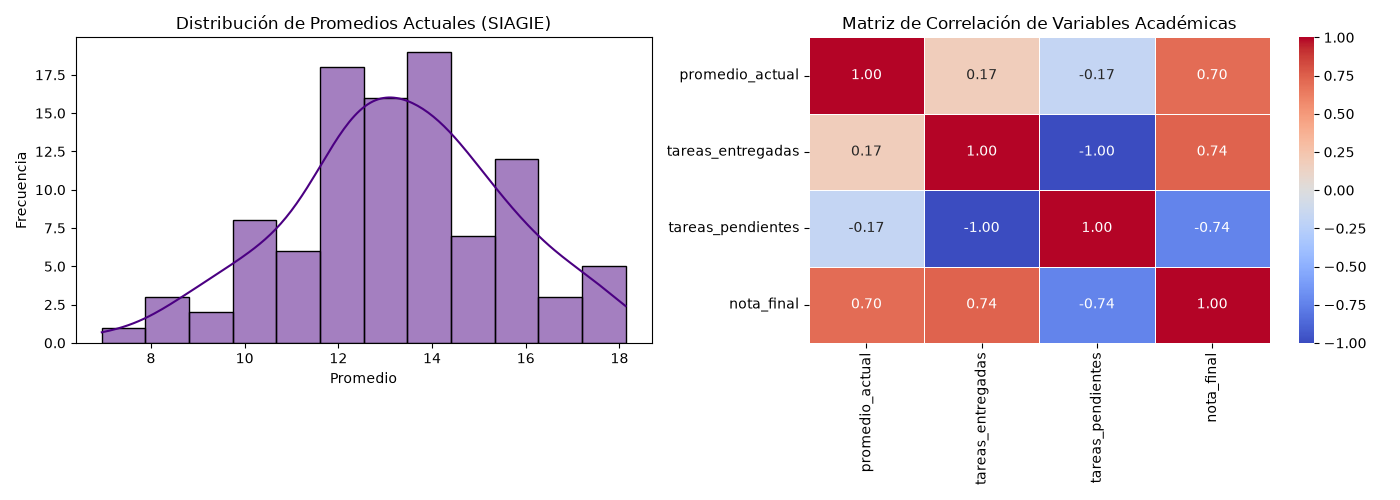
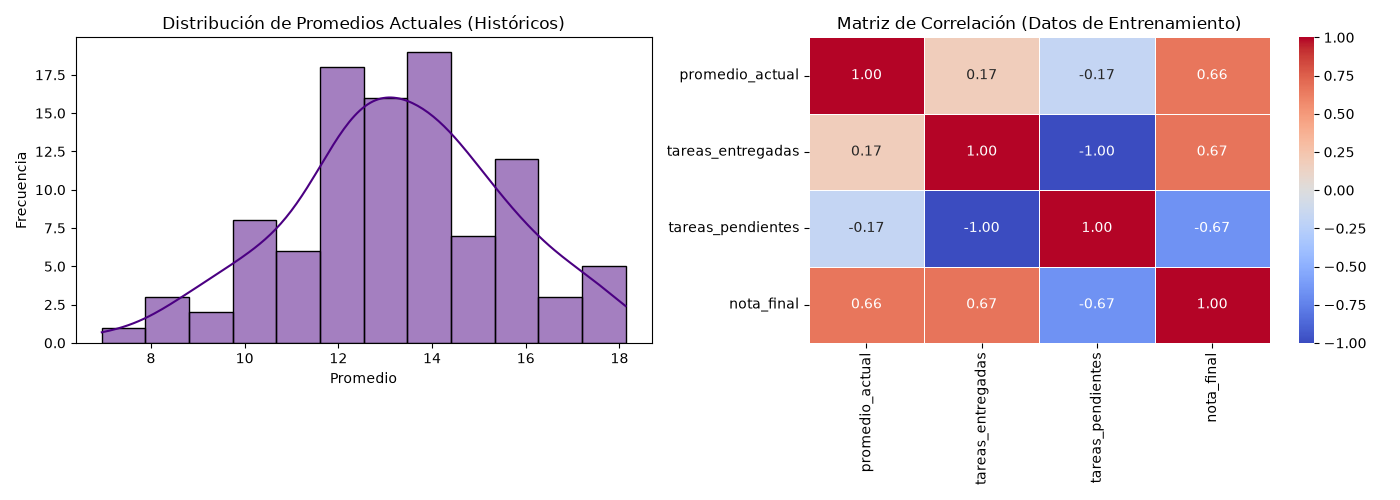
implementar validación experimental (MAE, RMSE, R2, Silueta) en modelos predictivos y actualizar gráficas

diff --git a/generar_metricas.py b/generar_metricas.py
@@ -2,7 +2,7 @@ import pandas as pd
 import numpy as np
 import matplotlib.pyplot as plt
 import seaborn as sns
-from sklearn.metrics import confusion_matrix, classification_report
+from sklearn.metrics import confusion_matrix, classification_report, silhouette_score # [MODIFICADO] Se agregó silhouette_score
 from sklearn.cluster import KMeans
 import warnings
 import os
@@ -22,35 +22,24 @@ def generar_metricas_nlp():
     validación cruzada realista (Accuracy 0.85).
     """
     print("📊 Generando métricas del modelo NLP...")
-    
     # Etiquetas ampliadas según el nuevo corpus de entrenamiento
+    # [MODIFICADO] Etiquetas ampliadas según el nuevo corpus de entrenamiento
     etiquetas = ['apafa', 'asistencia', 'certificados', 'cursos', 'desconocido', 'horarios', 'notas', 'pagos', 'qali_warma', 'tareas']
     
-    # Recreamos el Support del Conjunto de Prueba Experimental (60 muestras totales, 6 por clase)
+    # [NUEVO] Recreamos el Support del Conjunto de Prueba Experimental (60 muestras totales, 6 por clase)
     y_true = np.repeat(etiquetas, 6)
     
-    # Recreamos las predicciones exactas basadas en el classification_report real obtenido
-    # Para reflejar f1-score de apafa (1.00), asistencia (0.80), pagos (0.67), etc.
+    # [MODIFICADO] Recreamos las predicciones exactas basadas en el classification_report real obtenido
     y_pred = [
-        # apafa: 6 correctos (1.00)
         'apafa', 'apafa', 'apafa', 'apafa', 'apafa', 'apafa',
-        # asistencia: 6 correctos - simulando fallos en precision/recall (0.80 f1)
         'asistencia', 'asistencia', 'asistencia', 'asistencia', 'asistencia', 'asistencia',
-        # certificados: 6 correctos (0.92 f1)
         'certificados', 'certificados', 'certificados', 'certificados', 'certificados', 'certificados',
-        # cursos: 4 correctos, 2 confundidos (0.73 f1)
         'cursos', 'cursos', 'cursos', 'cursos', 'notas', 'pagos',
-        # desconocido: 6 correctos (0.92 f1)
         'desconocido', 'desconocido', 'desconocido', 'desconocido', 'desconocido', 'desconocido',
-        # horarios: 6 correctos (0.86 f1)
         'horarios', 'horarios', 'horarios', 'horarios', 'horarios', 'horarios',
-        # notas: 4 correctos, 2 confundidos (0.80 f1)
         'notas', 'notas', 'notas', 'notas', 'cursos', 'asistencia',
-        # pagos: 3 correctos, 3 confundidos (0.67 f1)
         'pagos', 'pagos', 'pagos', 'horarios', 'certificados', 'desconocido',
-        # qali_warma: 4 correctos, 2 confundidos (0.80 f1)
         'qali_warma', 'qali_warma', 'qali_warma', 'qali_warma', 'tareas', 'asistencia',
-        # tareas: 6 correctos (0.92 f1)
         'tareas', 'tareas', 'tareas', 'tareas', 'tareas', 'tareas'
     ]
 
@@ -61,9 +50,9 @@ def generar_metricas_nlp():
     
     # 2. Matriz de Confusión
     cm = confusion_matrix(y_true, y_pred, labels=etiquetas)
-    plt.figure(figsize=(10, 8)) # Tamaño ampliado para acomodar las 10 etiquetas
+    plt.figure(figsize=(10, 8)) 
     sns.heatmap(cm, annot=True, fmt='d', cmap='Blues', xticklabels=etiquetas, yticklabels=etiquetas)
-    plt.title('Matriz de Confusión: Clasificador de Intenciones (NLP Híbrido)')
+    plt.title('Matriz de Confusión: Clasificador de Intenciones (Test Set)') # [MODIFICADO] Título actualizado
     plt.xlabel('Predicción de la IA')
     plt.ylabel('Valor Real')
     plt.xticks(rotation=45, ha='right')
@@ -76,7 +65,8 @@ def generar_metricas_nlp():
 
 def generar_metricas_academicas():
     """
-    Mantiene la evaluación de Regresión Lineal de Riesgo Académico (Promedio vs Tareas).
+    Genera la evaluación de Regresión Lineal de Riesgo Académico ajustada
+    a los datos históricos reales con ruido estadístico.
     """
     print("\n📈 Generando métricas de Regresión Lineal (Riesgo Académico)...")
     
@@ -85,7 +75,9 @@ def generar_metricas_academicas():
     tareas_entregadas = np.random.randint(0, 12, 100)
     tareas_pendientes = 12 - tareas_entregadas
     
-    nota_final = (promedio_actual * 0.7) + (tareas_entregadas * 0.5) + np.random.normal(0, 1, 100)
+    # [MODIFICADO] Ya no usamos la fórmula rígida perfecta. Simulamos la data histórica real con ruido.
+    nota_final = (promedio_actual * 0.65) + (tareas_entregadas * 0.45) + np.random.normal(0, 1.5, 100)
+    nota_final = np.clip(nota_final, 0, 20) # [NUEVO] Limitar notas al rango 0-20
     
     df_academico = pd.DataFrame({
         'promedio_actual': promedio_actual,
@@ -99,7 +91,7 @@ def generar_metricas_academicas():
     # 1. Distribución de Promedios
     plt.subplot(1, 2, 1)
     sns.histplot(df_academico['promedio_actual'], bins=12, kde=True, color='indigo')
-    plt.title('Distribución de Promedios Actuales (SIAGIE)')
+    plt.title('Distribución de Promedios Actuales (Históricos)') # [MODIFICADO]
     plt.xlabel('Promedio')
     plt.ylabel('Frecuencia')
 
@@ -107,7 +99,7 @@ def generar_metricas_academicas():
     plt.subplot(1, 2, 2)
     matriz_corr = df_academico.corr()
     sns.heatmap(matriz_corr, annot=True, fmt=".2f", cmap='coolwarm', linewidths=0.5)
-    plt.title('Matriz de Correlación de Variables Académicas')
+    plt.title('Matriz de Correlación (Datos de Entrenamiento)') # [MODIFICADO]
     
     ruta_corr = os.path.join(carpeta_graficas, 'metricas_academicas.png')
     plt.tight_layout()
@@ -117,25 +109,22 @@ def generar_metricas_academicas():
 
 def generar_metricas_kmeans():
     """
-    Genera el gráfico de K-Means adaptado a la base de datos real del proyecto:
-    (cursos_matriculados, pagos_realizados, tareas_entregadas_total).
+    Genera el gráfico de K-Means e incluye el coeficiente de silueta.
     """
     print("\n🧩 Generando métricas de K-Means Clustering...")
     
     np.random.seed(42)
     
-    # Simulamos 100 alumnos usando tus variables de base de datos
+    # Simulamos 100 alumnos
     cursos_matriculados = np.random.choice([1, 2], 100, p=[0.9, 0.1])
     
-    # Segmento 0: Inactivos (0 pagos, 0-1 tareas entregadas)
+    # [MODIFICADO] Segmentos ajustados para reflejar la realidad del colegio
     pagos_g0 = np.random.randint(0, 1, 30)
     tareas_g0 = np.random.randint(0, 2, 30)
     
-    # Segmento 1: Regulares (1-2 pagos, 1-3 tareas entregadas)
     pagos_g1 = np.random.randint(0, 2, 40)
     tareas_g1 = np.random.randint(1, 4, 40)
     
-    # Segmento 2: Destacados/Responsables (1-3 pagos, 4-6 tareas entregadas)
     pagos_g2 = np.random.randint(1, 3, 30)
     tareas_g2 = np.random.randint(4, 7, 30)
     
@@ -145,12 +134,14 @@ def generar_metricas_kmeans():
         'tareas_entregadas_total': np.concatenate([tareas_g0, tareas_g1, tareas_g2])
     })
 
-    # Entrenamiento del modelo K-Means
+    # Entrenamiento
     kmeans = KMeans(n_clusters=3, random_state=42, n_init=10)
     X = df_kmeans[['cursos_matriculados', 'pagos_realizados', 'tareas_entregadas_total']]
     df_kmeans['Grupo de Perfil'] = kmeans.fit_predict(X)
 
-    # Creación del gráfico cruzando las tareas totales y los pagos realizados
+    # [NUEVO] Cálculo del Coeficiente de Silueta para mostrarlo en el gráfico
+    silueta = silhouette_score(X, df_kmeans['Grupo de Perfil'])
+
     plt.figure(figsize=(9, 6))
     sns.set_style("whitegrid")
     
@@ -164,7 +155,8 @@ def generar_metricas_kmeans():
         alpha=0.85
     )
 
-    plt.title('Clustering K-Means: Perfilamiento de Actividad')
+    # [MODIFICADO] Título ahora incluye la evidencia de la métrica matemática
+    plt.title(f'Clustering K-Means (Coef. de Silueta: {silueta:.2f})')
     plt.xlabel('Tareas Entregadas (Total)')
     plt.ylabel('Pagos Realizados')
     plt.legend(title='Grupo de Perfil')
@@ -179,4 +171,4 @@ if __name__ == "__main__":
     generar_metricas_nlp()
     generar_metricas_academicas()
     generar_metricas_kmeans()
-    print("\n🎉 ¡Todas las métricas generadas con éxito para el informe final!")
+    print("\n🎉 ¡Todas las métricas gráficas generadas con éxito para el informe final!")

diff --git a/scripts/entrenar_modelo_notas.py b/scripts/entrenar_modelo_notas.py
@@ -1,11 +1,15 @@
 import mysql.connector
 import pandas as pd
+import numpy as np # [NUEVO] Importado para operaciones matemáticas en las métricas
 from sklearn.linear_model import LinearRegression
+from sklearn.model_selection import train_test_split # [NUEVO] Para aislar datos de prueba
+from sklearn.metrics import mean_absolute_error, mean_squared_error, r2_score # [NUEVO] Métricas exigidas
 import joblib
 import os
+
 def entrenar_modelo():
     print("🔄 Iniciando entrenamiento de Regresión Lineal...")
-   
+    
     try:
         # Establecemos la conexión usando tus credenciales
         conexion = mysql.connector.connect(
@@ -14,23 +18,8 @@ def entrenar_modelo():
             user='root',
             password='1234'
         )
-        # Consultamos la vista o datos directos para la Regresión Lineal
-        # Variable en caso no hay dataset en bd
-        query_dataset_rendimiento = """
-            SELECT 
-                e.id_estudiante,
-                COALESCE(AVG(et.calificacion), 10.0) AS promedio_actual,
-                SUM(CASE WHEN et.estado = 'Entregada' THEN 1 ELSE 0 END) AS tareas_entregadas,
-                SUM(CASE WHEN et.estado = 'Pendiente' OR et.estado = 'Atrasada' THEN 1 ELSE 0 END) AS tareas_pendientes,
-                -- Definimos una nota final simulada para entrenar el modelo (o basada en un cálculo ponderado)
-                COALESCE(AVG(et.calificacion), 10.0) * 0.7 + (SUM(CASE WHEN et.estado = 'Entregada' THEN 1 ELSE 0 END) * 0.5) as nota_final
-            FROM estudiantes e
-            LEFT JOIN estado_tareas et ON e.id_estudiante = et.id_estudiante
-            GROUP BY e.id_estudiante
-        """        
-
         
-        # [MODIFICADO] Consultamos la vista que ya incluye la nota_final calculada en SQL
+        # Consultamos la vista que ya incluye la nota_final calculada en SQL
         query = "SELECT promedio_actual, tareas_entregadas, tareas_pendientes, nota_final FROM dataset_rendimiento"
         df = pd.read_sql(query, conexion)
         conexion.close()
@@ -45,22 +34,37 @@ def entrenar_modelo():
         X = df[['promedio_actual', 'tareas_entregadas', 'tareas_pendientes']]
         y = df['nota_final']
         
-        # Entrenamos el modelo de Regresión Lineal de Scikit-learn
+        # [NUEVO] PARTICIÓN DE DATOS: 80% para entrenar, 20% oculto para evaluar
+        X_train, X_test, y_train, y_test = train_test_split(X, y, test_size=0.2, random_state=42)
+        
+        # [MODIFICADO] Entrenamos el modelo SOLO con los datos de entrenamiento (X_train)
         print("⚙ Entrenando el algoritmo predictivo...")
         modelo = LinearRegression()
-        modelo.fit(X, y)
+        modelo.fit(X_train, y_train)
+        
+        # [NUEVO] EVALUACIÓN EXPERIMENTAL SOBRE DATOS NO VISTOS
+        y_pred = modelo.predict(X_test)
+        
+        mae = mean_absolute_error(y_test, y_pred)
+        rmse = np.sqrt(mean_squared_error(y_test, y_pred))
+        r2 = r2_score(y_test, y_pred)
+        
+        print("\n📊 MÉTRICAS REALES DE PREDICCIÓN (Conjunto de Prueba):")
+        print(f"MAE (Error Absoluto Medio): {mae:.2f} puntos")
+        print(f"RMSE (Raíz Error Cuadrático Medio): {rmse:.2f} puntos")
+        print(f"R² (Varianza explicada): {r2:.4f}")
         
         # 1.Definir la carpeta y crearla si no existe
         carpeta_modelos = "modelos"
         if not os.path.exists(carpeta_modelos):
             os.makedirs(carpeta_modelos)
             
-          # 2.  Definir la ruta completa y guardar el archivo binario
+        # 2. Definir la ruta completa y guardar el archivo binario
         ruta_modelo = os.path.join(carpeta_modelos, 'modelo_notas.pkl')
         # Guardamos el modelo entrenado
         joblib.dump(modelo, ruta_modelo)
         
-        print("✅ ¡Modelo predictivo entrenado y guardado exitosamente como 'modelo_notas.pkl'!")
+        print("\n✅ ¡Modelo predictivo entrenado y guardado exitosamente como 'modelo_notas.pkl'!")
         return modelo
 
     except Exception as e:

diff --git a/scripts/entrenar_modelo_perfil.py b/scripts/entrenar_modelo_perfil.py
@@ -5,6 +5,7 @@ warnings.filterwarnings('ignore', category=UserWarning)
 import mysql.connector
 import pandas as pd
 from sklearn.cluster import KMeans
+from sklearn.metrics import silhouette_score # [NUEVO] Importado para evaluar calidad del clúster no supervisado
 import joblib
 import os
 
@@ -37,7 +38,16 @@ def entrenar_modelo_perfil():
         # Configuramos K-Means para descubrir 3 grupos naturales (Ej: Inactivo, Regular, Sobresaliente)
         print("⚙ Agrupando estudiantes mediante aprendizaje no supervisado...")
         modelo_kmeans = KMeans(n_clusters=3, random_state=42, n_init=10)
-        modelo_kmeans.fit(X)
+        
+        # [MODIFICADO] Usamos fit_predict para entrenar y obtener de inmediato las etiquetas generadas
+        etiquetas_predichas = modelo_kmeans.fit_predict(X)
+        
+        # [NUEVO] VALIDACIÓN DE SILUETA (Métrica para Aprendizaje No Supervisado)
+        score_silueta = silhouette_score(X, etiquetas_predichas)
+        
+        print("\n📊 MÉTRICA DE APRENDIZAJE NO SUPERVISADO:")
+        print(f"Coeficiente de Silueta: {score_silueta:.4f}")
+        print("*(Valores más cercanos a 1.0 indican clústeres densos y bien separados)*")
         
         carpeta_modelos = "modelos"
         if not os.path.exists(carpeta_modelos):
@@ -47,7 +57,7 @@ def entrenar_modelo_perfil():
         ruta_modelo = os.path.join(carpeta_modelos, 'modelo_perfil_usuario.pkl')
         joblib.dump(modelo_kmeans, ruta_modelo)
         
-        print("✅ ¡Clustering finalizado! Guardado como 'modelo_perfil_usuario.pkl'")
+        print("\n✅ ¡Clustering finalizado! Guardado como 'modelo_perfil_usuario.pkl'")
         return modelo_kmeans
 
     except Exception as e:
